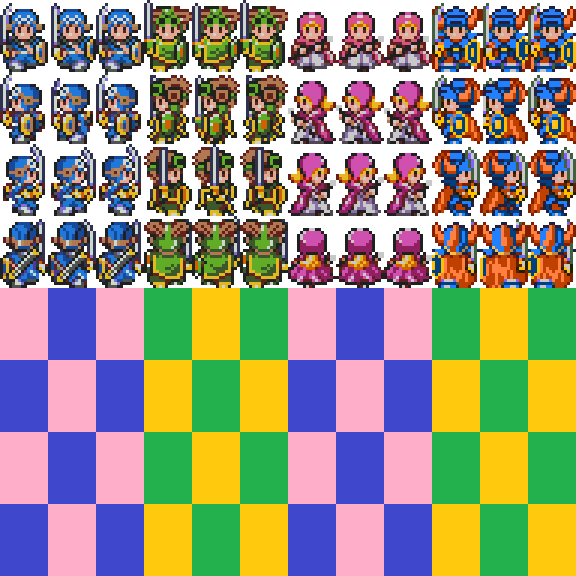
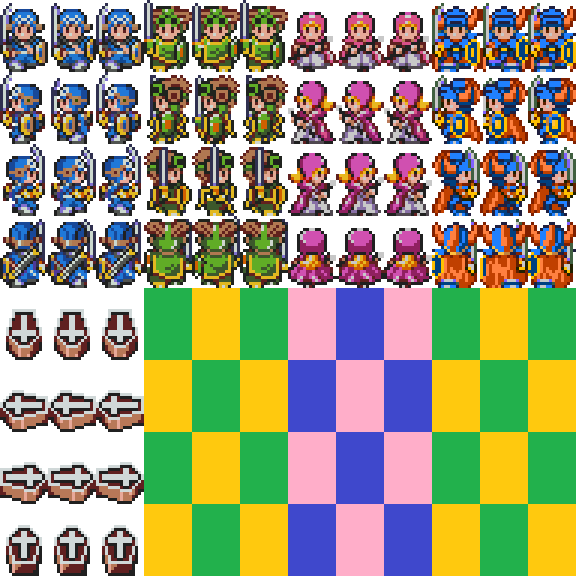
Misc: character sprites change to coffin when dead & change order when a member is dead

Changed region(s): [[0.0, 0.5, 0.25, 1.0]]

diff --git a/js/plugins/DQE_Game_Player.js b/js/plugins/DQE_Game_Player.js
@@ -1,0 +1,54 @@
+//=============================================================================
+// Dragon Quest Engine - Game Player
+// DQE_Game_Player.js                                                             
+//=============================================================================
+
+/*:
+*
+* @author NotADev
+* @plugindesc The The game object class for the Player - V0.1
+*
+*
+* @help
+* N/A
+*
+*/
+
+//------
+// Imported and namespace
+//------
+
+var Imported = Imported || {};
+Imported.DQEng_Game_Player = true;
+
+var DQEng = DQEng || {};
+DQEng.Game_Player = DQEng.Game_Player || {};
+
+//-----------------------------------------------------------------------------
+// Game_Player
+//-----------------------------------------------------------------------------
+
+/**
+ * Refreshes the character sprites for the party
+ * 
+ * This will display alive members in front of dead members regardless
+ * of party line-up (line-up will stay the same only the sprites change.)
+ * Dead members are displayed with a coffin sprite
+ */
+Game_Player.prototype.refresh = function () {
+    // the game character objects for the frontline party members
+    var frontline = [this].concat(this._followers._data);
+    // the game battler objects for the frontline party members ORGANISED with the alive members first
+    var organisedFL = $gameParty.aliveFrontline().concat($gameParty.deadFrontline());
+
+    frontline.forEach((member, index) => {
+        orgMember = organisedFL[index];
+        if (orgMember && orgMember.isDead()) {
+            member.setImage('Protags1_DQ3', 4);
+        } else {
+            let charName = orgMember ? orgMember.characterName() : '';
+            let charIndex = orgMember ? orgMember.characterIndex() : 0;
+            member.setImage(charName, charIndex);
+        }
+    });
+};

diff --git a/js/plugins/DQE_Game_Follower.js b/js/plugins/DQE_Game_Follower.js
@@ -1,0 +1,40 @@
+//=============================================================================
+// Dragon Quest Engine - Game Follower
+// DQE_Game_Follower.js                                                             
+//=============================================================================
+
+/*:
+*
+* @author NotADev
+* @plugindesc The The game object class for the Follower - V0.1
+*
+*
+* @help
+* N/A
+*
+*/
+
+//------
+// Imported and namespace
+//------
+
+var Imported = Imported || {};
+Imported.DQEng_Game_Follower = true;
+
+var DQEng = DQEng || {};
+DQEng.Game_Follower = DQEng.Game_Follower || {};
+
+//-----------------------------------------------------------------------------
+// Game_Follower
+//-----------------------------------------------------------------------------
+
+Game_Follower.prototype.refresh = function () {
+    var actor = this.actor();
+    if (actor && actor.isDead()) {
+        this.setImage('Protags1_DQ3', 4);
+    } else {
+        var characterName = this.isVisible() ? actor.characterName() : '';
+        var characterIndex = this.isVisible() ? actor.characterIndex() : 0;
+        this.setImage(characterName, characterIndex);
+    }
+};

diff --git a/js/plugins.js b/js/plugins.js
@@ -20,6 +20,8 @@ var $plugins =
 {"name":"DQE_Game_Party","status":true,"description":"The The game object class for the party - V0.1","parameters":{}},
 {"name":"DQE_Game_Unit","status":true,"description":"The superclass of Game_Unit and Game_Troop. - V0.1","parameters":{}},
 {"name":"DQE_Game_Troop","status":true,"description":"The game object class for a troop and the battle-related data - V0.1","parameters":{}},
+{"name":"DQE_Game_Player","status":true,"description":"The The game object class for the Player - V0.1","parameters":{}},
+{"name":"DQE_Game_Follower","status":true,"description":"The The game object class for the Follower - V0.1","parameters":{}},
 {"name":"DQE_SoundManager","status":true,"description":"The Sound Manager - V0.1","parameters":{}},
 {"name":"DQE_BattleManager","status":true,"description":"Static class for managing the battle - V0.1","parameters":{"Defeat Music Wait":"7"}},
 {"name":"-----------------","status":false,"description":"","parameters":{}},

diff --git a/js/plugins/DQE_Game_Battler.js b/js/plugins/DQE_Game_Battler.js
@@ -44,3 +44,26 @@ Game_Battler.prototype.useItem = function (item, modifiedSkill, itemIndex = -1) 
         }
     }
 };
+
+Game_Battler.prototype.addState = function (stateId) {
+    if (this.isStateAddable(stateId)) {
+        if (!this.isStateAffected(stateId)) {
+            this.addNewState(stateId);
+            this.refresh();
+            stateId === this.deathStateId() && $gamePlayer.refresh();
+        }
+        this.resetStateCounts(stateId);
+        this._result.pushAddedState(stateId);
+    }
+};
+
+Game_Battler.prototype.removeState = function (stateId) {
+    if (this.isStateAffected(stateId)) {
+        let removeDeath = stateId === this.deathStateId();
+        removeDeath && this.revive();
+        this.eraseState(stateId);
+        $gamePlayer.refresh();
+        removeDeath && this.refresh();
+        this._result.pushRemovedState(stateId);
+    }
+};

diff --git a/js/plugins/DQE_Game_Unit.js b/js/plugins/DQE_Game_Unit.js
@@ -43,3 +43,22 @@ Game_Unit.prototype.select = function (activeMembers) {
         });
     }, this);
 };
+
+/**
+ * Returns the members of the front line party (first 4)
+ */
+Game_Unit.prototype.frontline = function () {
+    return this.members().slice(0, 4);
+};
+
+Game_Unit.prototype.aliveFrontline = function () {
+    return this.frontline().filter(function (member) {
+        return member.isAlive();
+    });
+};
+
+Game_Unit.prototype.deadFrontline = function () {
+    return this.frontline().filter(function (member) {
+        return member.isDead();
+    });
+};
